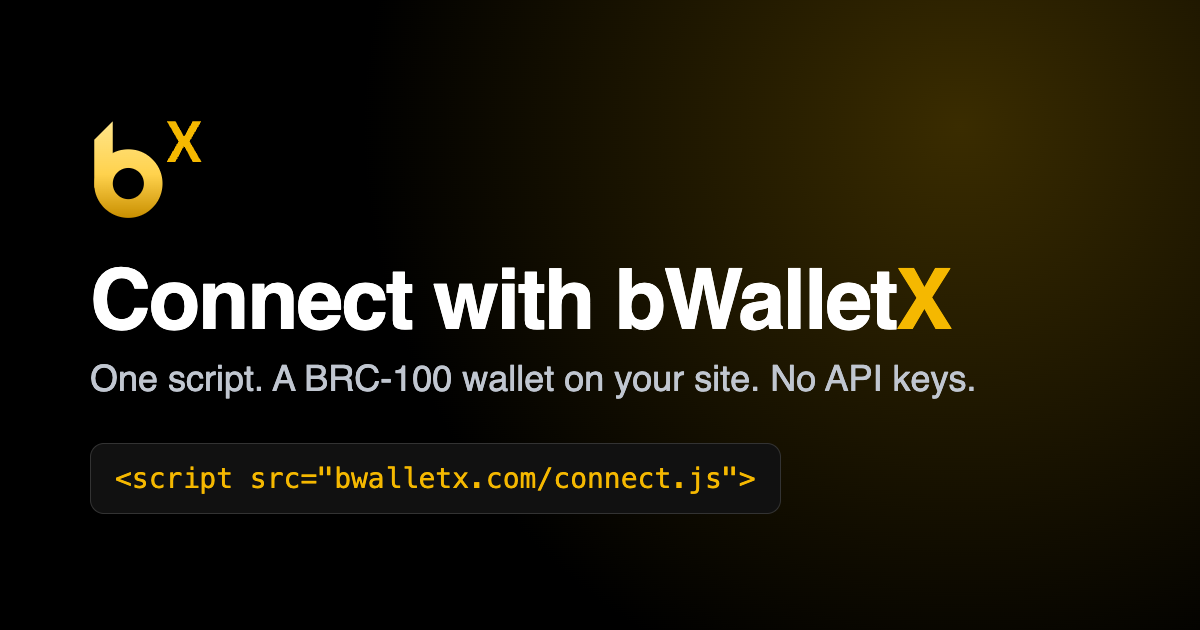
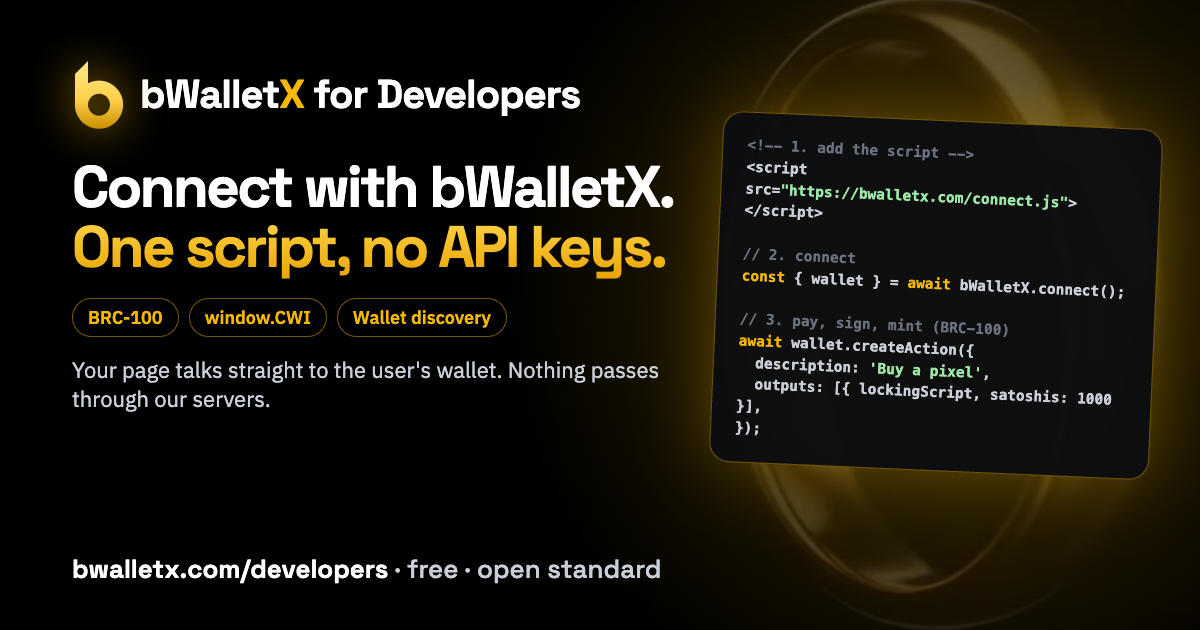
Share cards: Developers v2, Friends v4; serve /friends again (own card) instead of redirecting to /social

diff --git a/friends.html b/friends.html
@@ -10,14 +10,14 @@
     <meta property="og:site_name" content="bWalletX" />
     <meta property="og:title" content="bWalletX Friends: your $name is your token" />
     <meta property="og:description" content="Handles, tokenised handles, a market for user tokens, and chat rooms you enter by holding them." />
-    <meta property="og:image" content="https://bwalletx.com/og-friends-b.png" />
+    <meta property="og:image" content="https://bwalletx.com/og-friends-v4.png" />
     <meta property="og:image:width" content="1200" />
     <meta property="og:image:height" content="630" />
     <meta property="og:image:alt" content="bWalletX Friends: name, token, room" />
     <meta name="twitter:card" content="summary_large_image" />
     <meta name="twitter:title" content="bWalletX Friends: your $name is your token" />
     <meta name="twitter:description" content="Handles, tokenised handles, a market for user tokens, and chat rooms you enter by holding them." />
-    <meta name="twitter:image" content="https://bwalletx.com/og-friends-b.png" />
+    <meta name="twitter:image" content="https://bwalletx.com/og-friends-v4.png" />
     <link rel="icon" href="/favicon.ico" />
     <link rel="stylesheet" href="/styles.css" />
     <style>

diff --git a/developers.html b/developers.html
@@ -10,14 +10,14 @@
     <meta property="og:site_name" content="bWalletX" />
     <meta property="og:title" content="Connect with bWalletX" />
     <meta property="og:description" content="One script gives your site a BRC-100 wallet. No API keys, no sign-up." />
-    <meta property="og:image" content="https://bwalletx.com/og-developers-b.png" />
+    <meta property="og:image" content="https://bwalletx.com/og-developers-v2.png" />
     <meta property="og:image:width" content="1200" />
     <meta property="og:image:height" content="630" />
     <meta property="og:image:alt" content="Connect with bWalletX: one script, a BRC-100 wallet on your site" />
     <meta name="twitter:card" content="summary_large_image" />
     <meta name="twitter:title" content="Connect with bWalletX" />
     <meta name="twitter:description" content="One script gives your site a BRC-100 wallet. No API keys, no sign-up." />
-    <meta name="twitter:image" content="https://bwalletx.com/og-developers-b.png" />
+    <meta name="twitter:image" content="https://bwalletx.com/og-developers-v2.png" />
     <link rel="icon" href="/favicon.ico" />
     <link rel="stylesheet" href="/styles.css" />
     <style>
